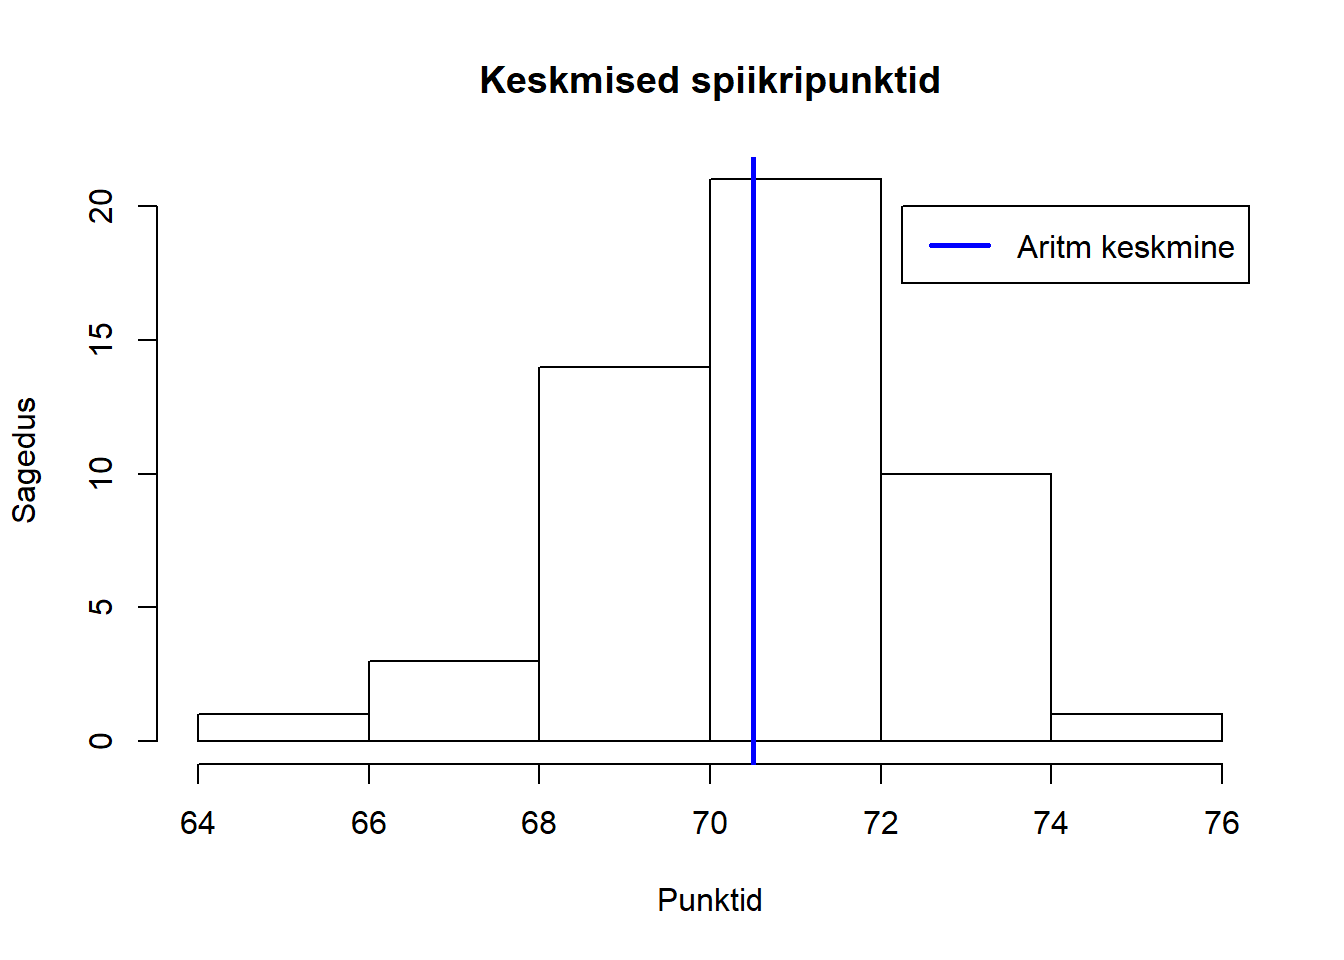
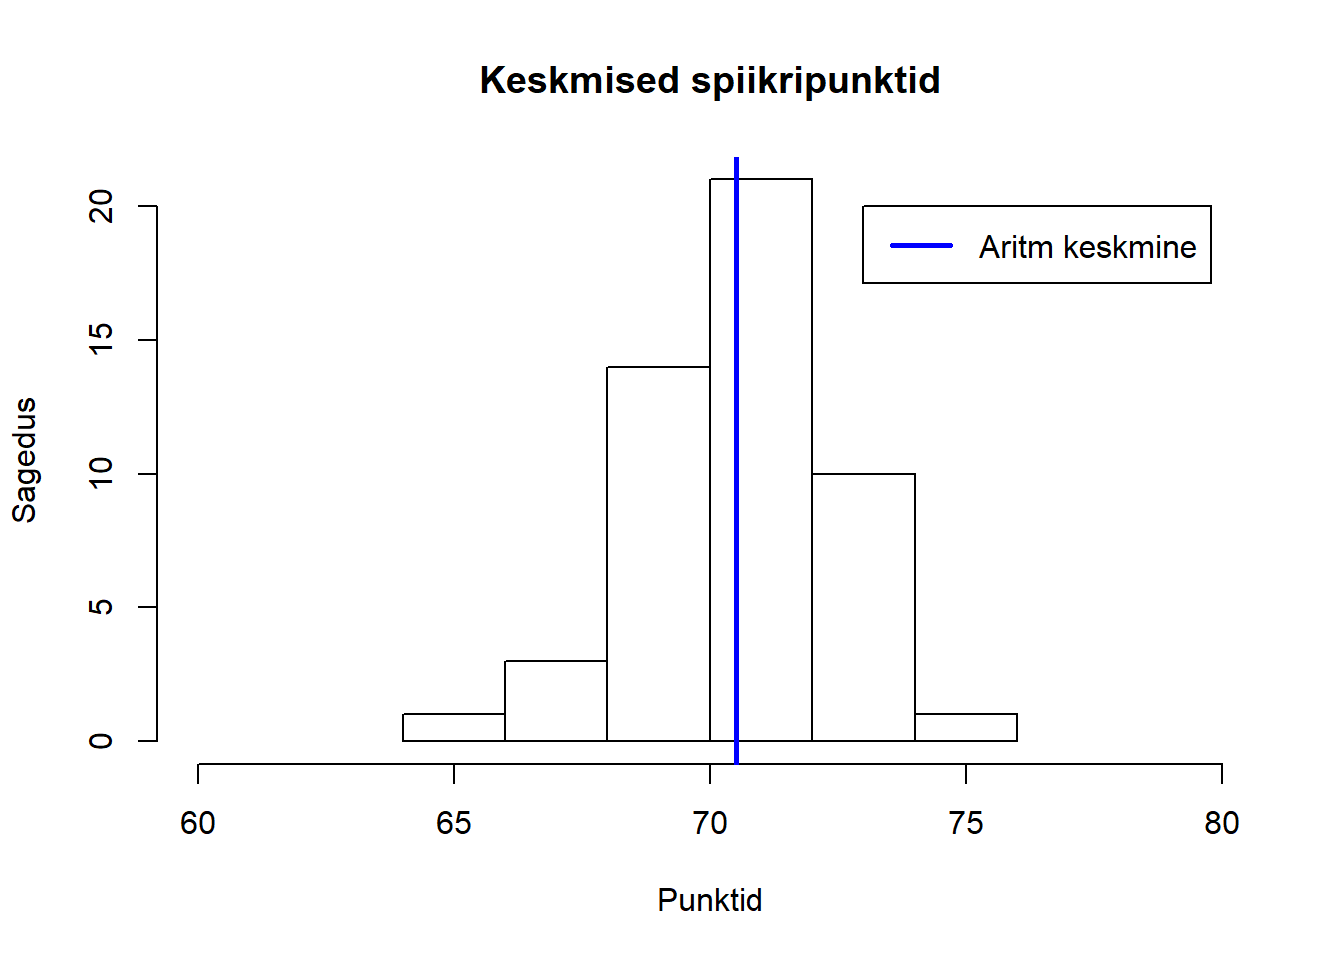
update

diff --git a/kkemv1.html b/kkemv1.html
@@ -205,7 +205,35 @@ $(document).ready(function () {
 </div>
 
 
+<pre class="r"><code>tab = read.csv(&quot;https://github.com/carlmartinkeerberg/KKEMV-stat/raw/master/Ietapp.csv&quot;,
+               header = T,
+               sep = &quot;;&quot;,
+               encoding = &quot;UTF-8&quot;,
+               dec = &quot;.&quot;,
+               stringsAsFactors = F)
 
+speakers = tab[c(1:93),]
+
+alltotalavg = na.omit(as.numeric(speakers$TOTALAVG))
+
+meantotalavg = mean(na.omit(as.numeric(speakers$TOTALAVG)))
+
+hist(alltotalavg,
+     main = &quot;Keskmised spiikripunktid&quot;,
+     xlab = &quot;Punktid&quot;,
+     ylab = &quot;Sagedus&quot;,
+     xlim = c(60, 80),
+     breaks = 6)
+
+abline(v = meantotalavg,
+       col = &quot;blue&quot;,
+       lwd = 2.5)
+
+legend(73, 20,
+       c(&quot;Aritm keskmine&quot;),
+       lwd = c(2.5),
+       col = c(&quot;blue&quot;))</code></pre>
+<p><img src="kkemv1_files/figure-html/unnamed-chunk-1-1.png" width="672" /></p>
 
 
 

diff --git a/kkemv2.html b/kkemv2.html
@@ -222,13 +222,14 @@ hist(alltotalavg,
      main = &quot;Keskmised spiikripunktid&quot;,
      xlab = &quot;Punktid&quot;,
      ylab = &quot;Sagedus&quot;,
+     xlim = c(60, 80),
      breaks = 6)
 
 abline(v = meantotalavg,
        col = &quot;blue&quot;,
        lwd = 2.5)
 
-legend(72.25, 20,
+legend(73, 20,
        c(&quot;Aritm keskmine&quot;),
        lwd = c(2.5),
        col = c(&quot;blue&quot;))</code></pre>
@@ -236,9 +237,9 @@ legend(72.25, 20,
 <pre class="r"><code>library(knitr)
 
 kable(speakers,
-      caption = &quot;V?itlejad&quot;)</code></pre>
+      caption = &quot;Väitlejad&quot;)</code></pre>
 <table>
-<caption>V?itlejad</caption>
+<caption>Väitlejad</caption>
 <thead>
 <tr class="header">
 <th align="left">SPEAKER</th>
